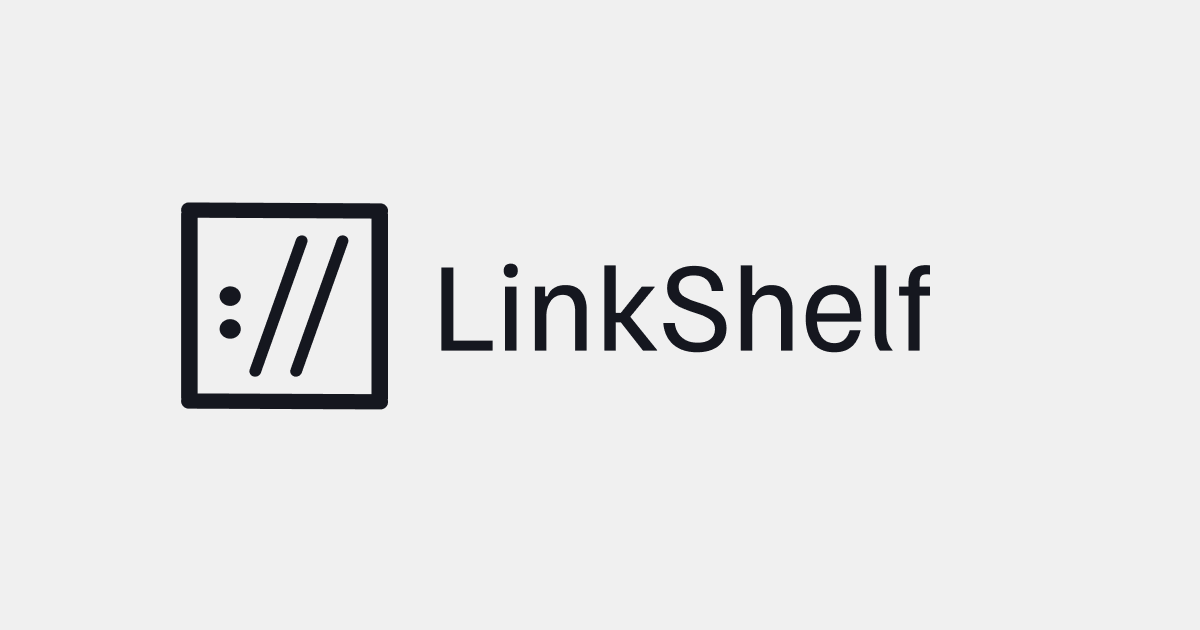
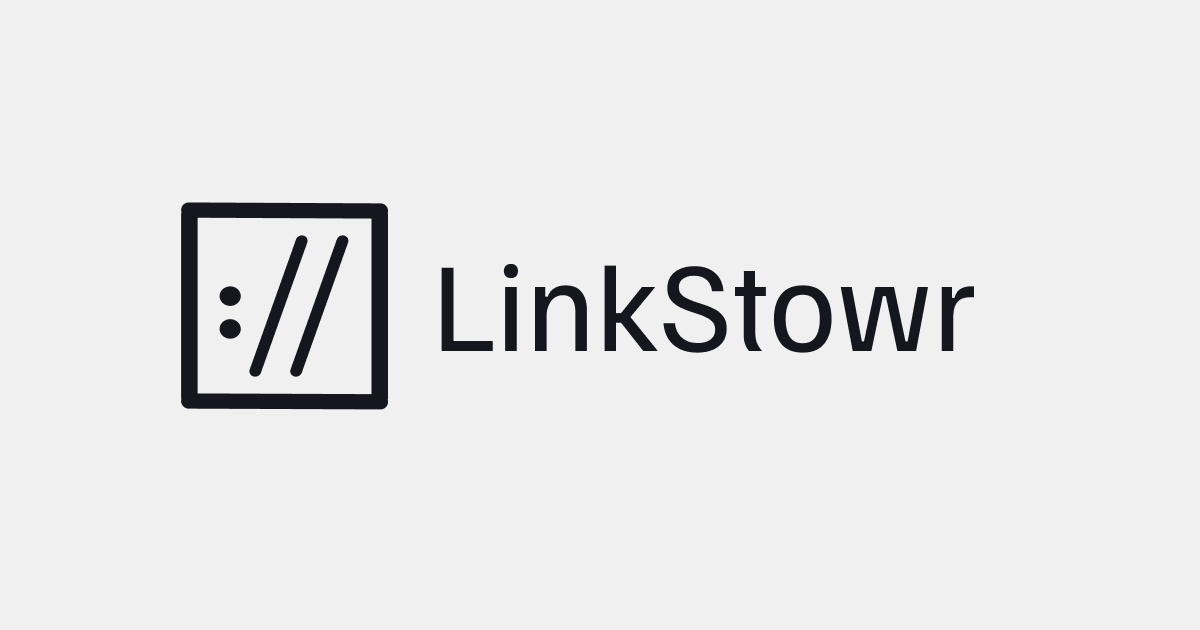
Rebrand to linkstowr and add chrome download button

Changed region(s): [[0.6167, 0.4222, 0.8325, 0.573], [0.555, 0.4222, 0.5858, 0.4524]]

diff --git a/src/routes/+page.svelte b/src/routes/+page.svelte
@@ -1,9 +1,10 @@
 <script>
-  import extScreenshot from '$lib/assets/linkshelf-chrome.png';
+  import extScreenshot from '$lib/assets/linkstowr-chrome.png';
+  import chromeIcon from '$lib/assets/chrome-48.png';
   import pluginVideo from '$lib/assets/linkshelf-obsidian.webm';
   import PromoRow from '$lib/components/PromoRow.svelte';
 
-  const textClasses = 'text-xl md:text-2xl text-gray-600';
+  const textClasses = 'text-xl text-gray-600';
 </script>
 
 <!-- YOU CAN DELETE EVERYTHING IN THIS PAGE -->
@@ -12,35 +13,47 @@
   <div class="my-16 text-start flex flex-col">
     <h1 class="h1 hero-text mb-12">Effortlessly save and organize your web links in Obsidian.</h1>
     <h3 class="h3 sub-hero-text mb-10">
-      LinkShelf is a free, open source and privacy-friendly set of tools designed to make it
+      LinkStowr is a free, open source and privacy-friendly set of tools designed to make it
       extremely easy to capture and store your valuable online resources in a structured and
       meaningful way.
     </h3>
     <a class="btn btn-xl variant-filled w-[240px]" href="/signup"> Sign Up </a>
   </div>
 </div>
-<div class="container max-w-6xl mx-auto mb-16">
-  <PromoRow direction="left-to-right">
-    <img
-      slot="image"
-      alt="Screenshot of the LinkShelf Chrome extension for saving a link"
-      src={extScreenshot}
-    />
-    <p slot="text" class={textClasses}>
-      Use the Chrome extension to save a link along with a helpful note. LinkShelf will only store
-      the links until they get synced to Obsidian.
-    </p>
-  </PromoRow>
+<div class="container max-w-full mx-auto mb-16">
+  <div class="flex justify-start">
+    <PromoRow direction="left-to-right">
+      <img
+        slot="image"
+        alt="Screenshot of the LinkStowr Chrome extension for saving a link"
+        src={extScreenshot}
+      />
+      <div slot="text">
+        <p class={textClasses}>
+          Use the Chrome extension to save a link along with a helpful note. LinkStowr will only
+          store the links until they get synced to Obsidian.
+        </p>
+        <a
+          href="https://chrome.google.com/webstore/detail/ahppmgflbaeiphlkkgngijgmfapabgee"
+          target="_blank"
+          class="mt-4 btn variant-filled"
+          ><img class="mr-2" src={chromeIcon} alt="Chrome icon" />Download LinkStowr</a
+        >
+      </div>
+    </PromoRow>
+  </div>
   <div class="my-8 h-1" />
-  <PromoRow direction="right-to-left">
-    <video slot="image" autoplay loop muted>
-      <source src={pluginVideo} type="video/webm" />
-    </video>
-    <p slot="text" class={textClasses}>
-      Use the Obsidian plugin to sync to your vault. Once the sync is complete, LinkShelf will clear
-      all the links ensuring that your vault is the only long term home for your links!
-    </p>
-  </PromoRow>
+  <div class="flex justify-end">
+    <PromoRow direction="right-to-left">
+      <video slot="image" autoplay loop muted>
+        <source src={pluginVideo} type="video/webm" />
+      </video>
+      <p slot="text" class={textClasses}>
+        Use the Obsidian plugin to sync to your vault. Once the sync is complete, LinkStowr will
+        clear all the links ensuring that your vault is the only long term home for your links!
+      </p>
+    </PromoRow>
+  </div>
 </div>
 
 <style>

diff --git a/src/routes/+layout.svelte b/src/routes/+layout.svelte
@@ -34,14 +34,14 @@
 
 <svelte:head>
   <!-- HTML Meta Tags -->
-  <title>LinkShelf — Save links to Obsidian</title>
+  <title>LinkStowr — Save links to Obsidian</title>
   <meta name="description" content="Effortlessly save and organize your web links in Obsidian" />
-  <meta name="keywords" content="linkshelf, obsidian, bookmarks, links, open source" />
+  <meta name="keywords" content="linkstowr, obsidian, bookmarks, links, open source" />
 
   <!-- Facebook Meta Tags -->
-  <meta property="og:url" content="https://linkshelf.app" />
+  <meta property="og:url" content="https://linkstowr.com" />
   <meta property="og:type" content="website" />
-  <meta property="og:title" content="LinkShelf" />
+  <meta property="og:title" content="LinkStowr" />
   <meta
     property="og:description"
     content="Effortlessly save and organize your web links in Obsidian"
@@ -50,9 +50,9 @@
 
   <!-- Twitter Meta Tags -->
   <meta name="twitter:card" content="summary_large_image" />
-  <meta property="twitter:domain" content="linkshelf.app" />
-  <meta property="twitter:url" content="https://linkshelf.app" />
-  <meta name="twitter:title" content="LinkShelf" />
+  <meta property="twitter:domain" content="linkstowr.com" />
+  <meta property="twitter:url" content="https://linkstowr.com" />
+  <meta name="twitter:title" content="LinkStowr" />
   <meta
     name="twitter:description"
     content="Effortlessly save and organize your web links in Obsidian"
@@ -86,7 +86,7 @@
           </li>
         {/if}
         <li on:keypress on:click={drawerStore.close}>
-          <NavLink href="https://github.com/joelseq/linkshelf-web" target="_blank" rel="noreferrer">
+          <NavLink href="https://github.com/joelseq/linkstowr-web" target="_blank" rel="noreferrer">
             <Fa size="2x" icon={faGithub} />
           </NavLink>
         </li>
@@ -162,7 +162,7 @@
               <NavLink>Logout</NavLink>
             </form>
           {/if}
-          <NavLink href="https://github.com/joelseq/linkshelf-web" target="_blank" rel="noreferrer">
+          <NavLink href="https://github.com/joelseq/linkstowr-web" target="_blank" rel="noreferrer">
             <Fa size="2x" icon={faGithub} />
           </NavLink>
         </div>

diff --git a/src/lib/components/PromoRow.svelte b/src/lib/components/PromoRow.svelte
@@ -2,17 +2,19 @@
   export let direction: 'left-to-right' | 'right-to-left';
 </script>
 
-<div class="w-full grid md:grid-cols-3 sm:grid-cols-2 my-24">
+<div class="w-full md:w-5/6 grid md:grid-cols-3 sm:grid-cols-2 my-24">
   {#if direction === 'left-to-right'}
     <div class="col-span-2">
       <slot name="image" />
     </div>
-    <div class="col-span-2 md:col-span-1 self-center justify-center px-8 mt-4 md:mt-0">
+    <div
+      class="col-span-2 md:col-span-1 self-center justify-center ml-8 md:ml-16 lg:ml-32 mt-4 md:mt-0"
+    >
       <slot name="text" />
     </div>
   {:else}
     <div
-      class="col-span-2 md:col-span-1 self-center justify-center px-8 mt-4 md:mt-0 md:order-first order-last"
+      class="col-span-2 md:col-span-1 self-center justify-center mr-8 md:mr-16 lg:mr-32 mt-4 md:mt-0 md:order-first order-last"
     >
       <slot name="text" />
     </div>

diff --git a/README.md b/README.md
@@ -1,16 +1,19 @@
-# LinkShelf Web App
+# LinkStowr Web App
 
 Web App for creating an account and generating an access token which can be used to save links from a Chromium based browser directly into Obsidian.
 
 The other repos:
-[LinkShelf API](https://github.com/joelseq/linkshelf-api)
-[LinkShelf Chrome Extension](https://github.com/joelseq/linkshelf-extension)
-[LinkShelf Obsidian Plugin](https://github.com/joelseq/obsidian-linkshelf)
+
+[LinkStowr API](https://github.com/joelseq/linkstowr-api)
+
+[LinkStowr Chrome Extension](https://github.com/joelseq/linkstowr-extension)
+
+[LinkStowr Obsidian Plugin](https://github.com/joelseq/obsidian-linkstowr)
 
 ## Developing
 
 In order to run the local development setup for the web app, you will also need to run the server locally. You can follow the
-instructions in the [API repo's README](https://github.com/joelseq/linkshelf-api) for how to do that.
+instructions in the [API repo's README](https://github.com/joelseq/linkstowr-api) for how to do that.
 
 After you've got the server setup and running, install the dependencies for this repo with `npm install` (or `pnpm install` or `yarn`), start a development server:
 

diff --git a/src/lib/docs/privacy.md b/src/lib/docs/privacy.md
@@ -2,7 +2,7 @@
 
 Effective date: July 20, 2023
 
-Thank you for checking out LinkShelf! This Privacy Policy explains how we collect, and use your information when you use our website, Chrome extension, and Obsidian plugin (collectively referred to as "Services"). By using our Services, you consent to the practices described in this Privacy Policy.
+Thank you for checking out LinkStowr! This Privacy Policy explains how we collect, and use your information when you use our website, Chrome extension, and Obsidian plugin (collectively referred to as "Services"). By using our Services, you consent to the practices described in this Privacy Policy.
 
 ## Information We Collect:
 a. User Data:
